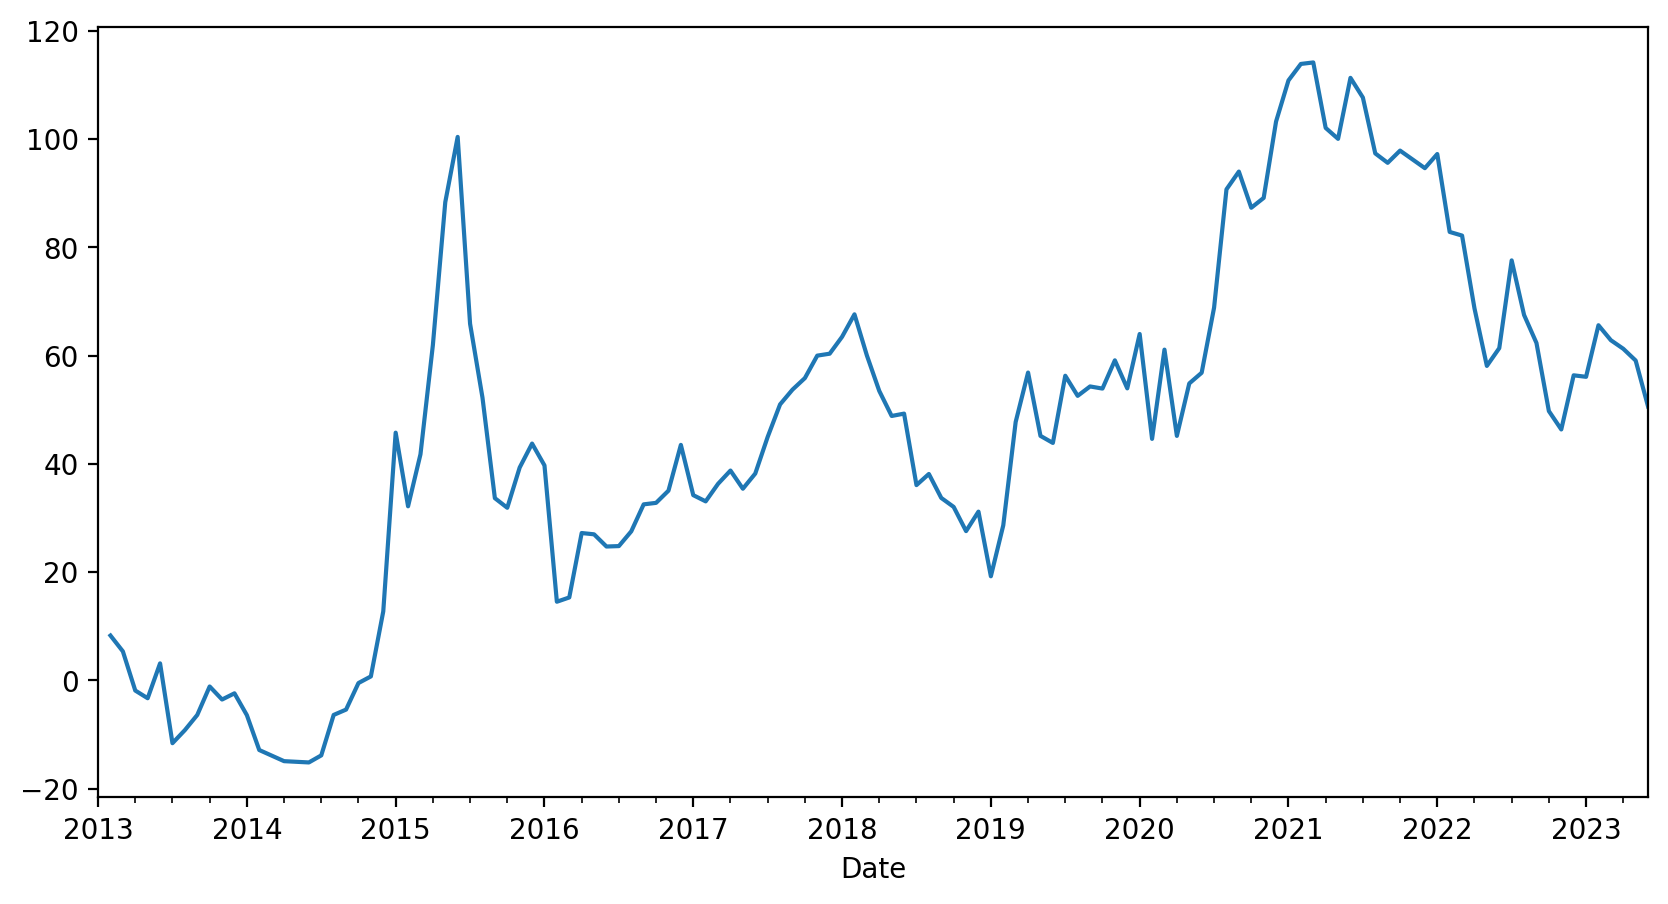
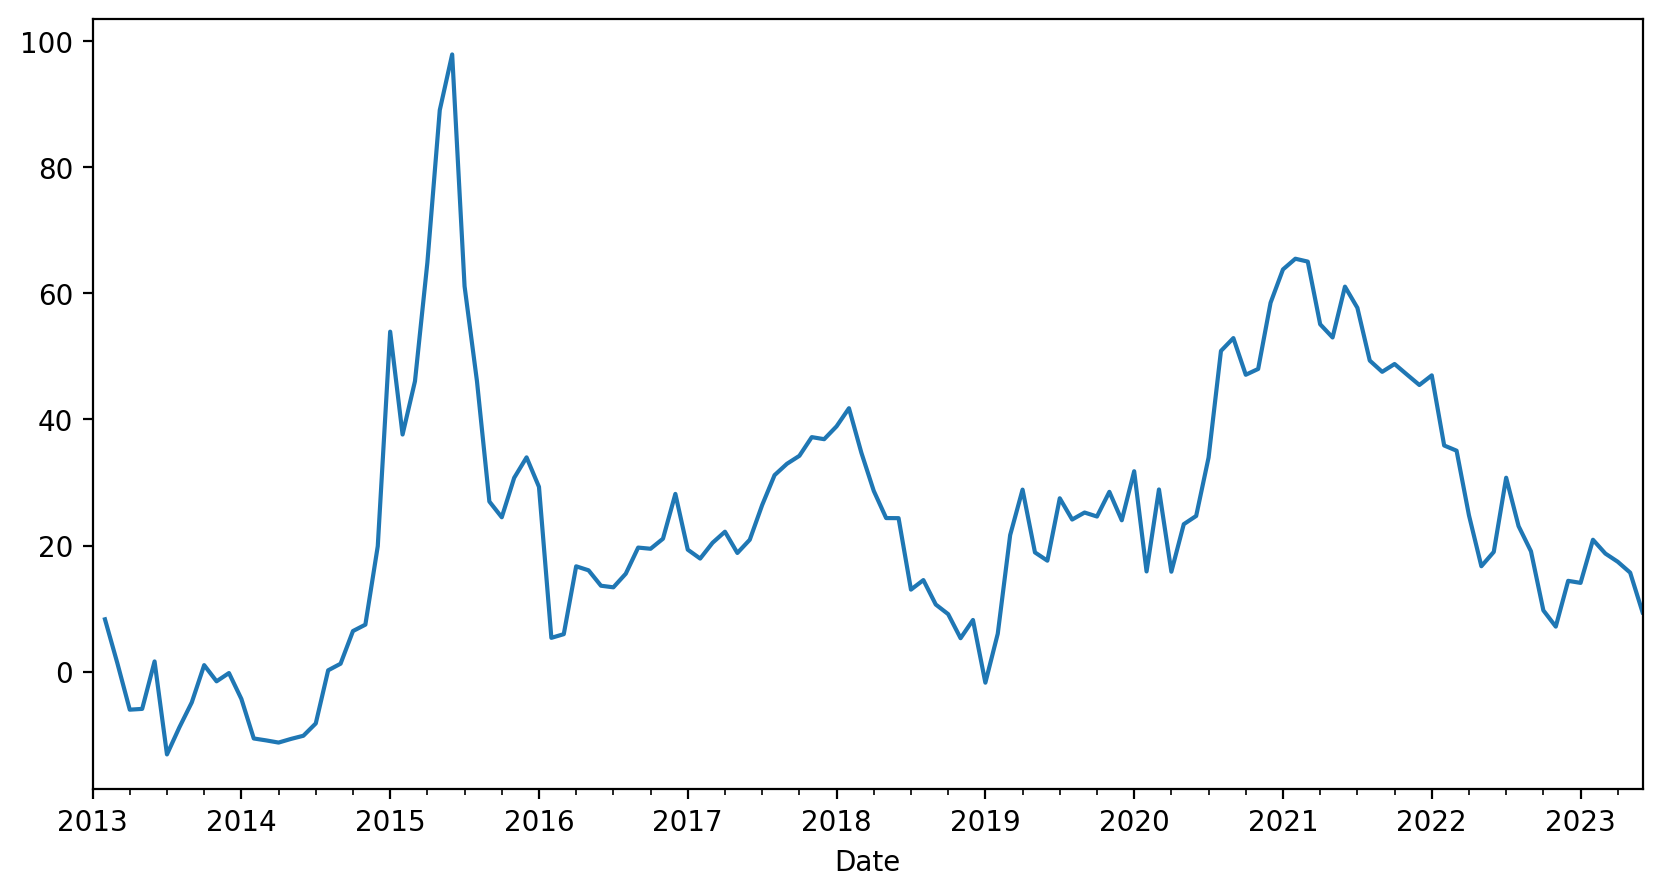
Deployed 330d279 with MkDocs version: 1.4.3

diff --git a/primer/lesson_3/index.html b/primer/lesson_3/index.html
@@ -558,6 +558,14 @@
 <p>从统计来看，无论那个年份买入，到目前为止，都算不上成功的投资，甚至可以说惨淡。</p>
 <p>所以，沪深 300 不能无脑买入。我们需要更有效的策略。</p>
 <h2 id="_3">定投是个好策略吗？</h2>
+<p>指数基金定投是一个非常流行的话题，被很多人描绘成普通人的投资银弹。但是，很少有人认真去计算一下定投的实际效果，我们以沪深 300 最近 10 年的数据来做一个测试，看看定投到底是不是好的投资策略。</p>
+<p>如果我们从2013年开始定投沪深 300 ETF，每个月第一个交易日买入 1000 元，到目前一共投入 126期，总收益率只有 9.4%。即使按照2021年初的最高点计算，也只有 58% 的收益。如果从2021年开始定投，就更惨了，两年半的时间，总收益率是 -15.74% 。</p>
+<p><img alt="沪深300定投" src="../../images/csi300_aip.png" /></p>
+<p>从结果来看，定投沪深 300 的表现其实和沪深 300 本身的走势是一致的，并不会比一次性买入持有带来太多的优化，甚至不如买在幸运位置的表现。定投的实际意义有两个，一个是强制储蓄，从定投的总资产增长曲线也可以看出，我们的资产基本是在稳定增长的。</p>
+<p><img alt="沪深300定投" src="../../images/csi300_aip_v.png" /></p>
+<p>第二个意义是避免了择时，我们不需要关心什么时候买，也能获得与沪深 300 表现一致的投资组合。但是如果你真的手里有一大笔钱要投资，是不能把时间拉长到10年这样的维度去定投的，因为闲置的资金也有机会成本。</p>
+<p>所以定投并不是银弹，但是作为一种强制储蓄手段是可以的。定投不能优化持股体验，这和中国股市牛短熊长的特点有关，上涨的时间往往是短暂了，而大部分时间是在下跌。虽然看上去定投摊薄了成本，但持股过程的体验并不友好，我们能直观感受到的依然是跌跌不休。定投也没有平滑掉波动，长期来看，我们的投资组合依然是长窜下跳的。特别是随着定投时间越来越长，每一期投入的资金占总资金的比例会越来越低，我们实际上是在持有一个没有操作的长期仓位。</p>
+<p>推荐普通人定投宽基的观点大多来自美国市场，美国的标普 500 指数确实有很好的定投体验，这是因为美国股市是一个牛长熊短的市场。而中国股市正好相反，所以不要期待通过定投获得超额收益和更好的持股体验。定投只是一种强制储蓄手段，而且由于股市的波动性，为了避免浮亏变实亏，不能随时取出，事实上导致流动性变差了。</p>
 <h2 id="_4">两个指标选择上下车时机</h2>
 <p>进行中。。。</p>
 
